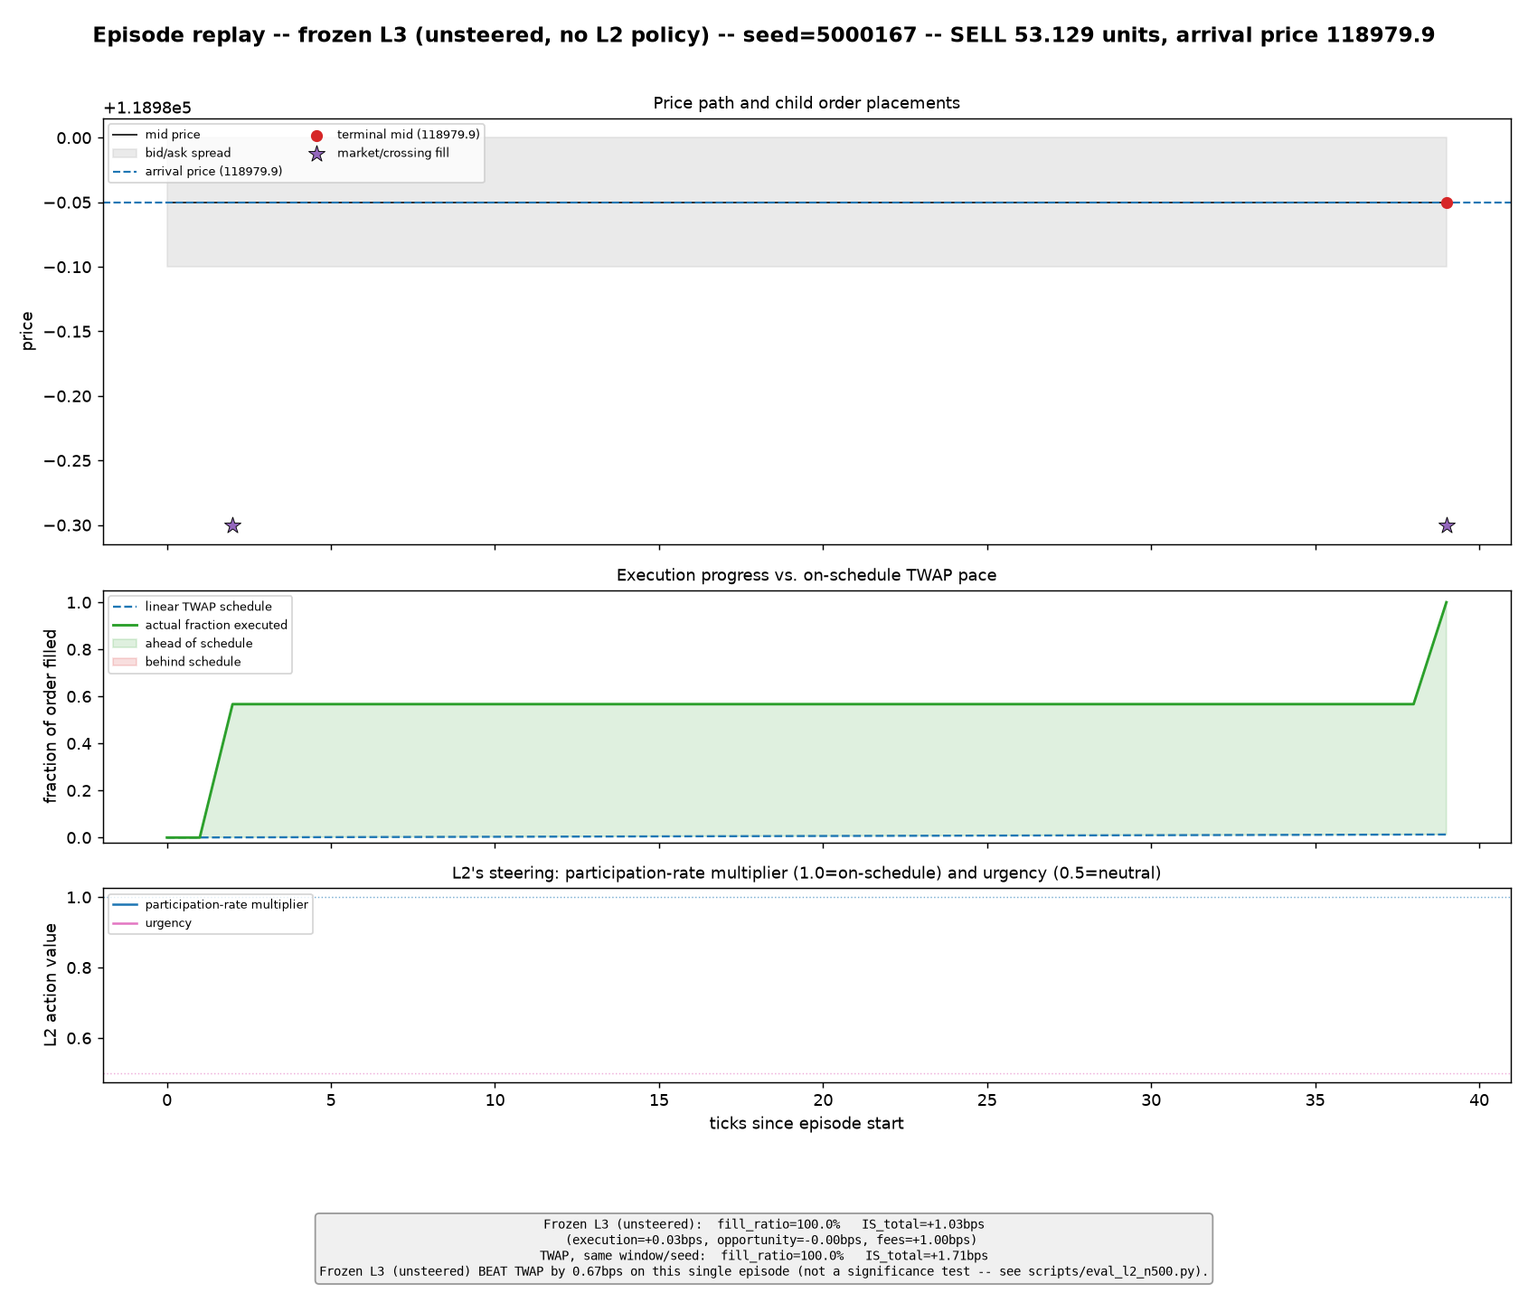
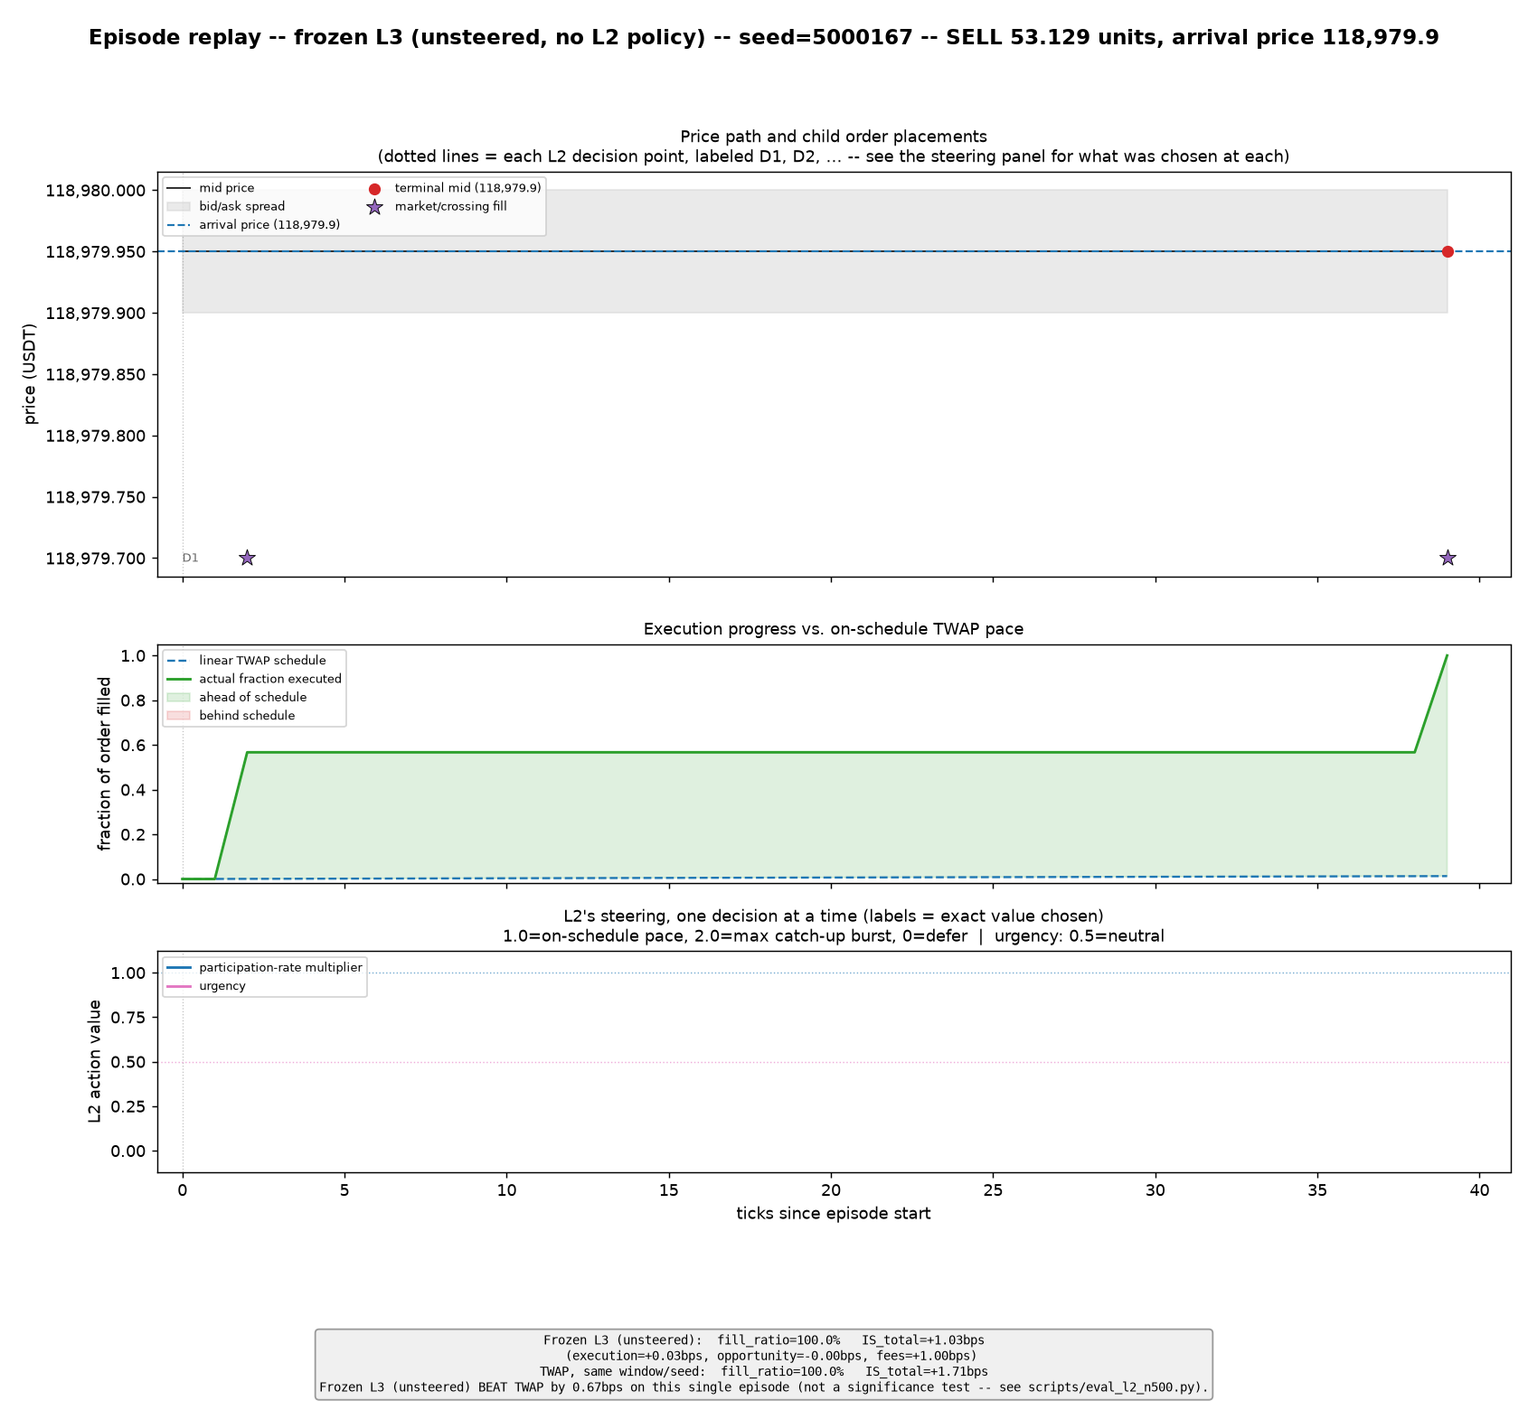
fix(replay): full comma-formatted prices (no sci-notation), adaptive tick precision, per-decision value labels, separate detail figures per panel

diff --git a/scripts/replay_episode.py b/scripts/replay_episode.py
@@ -65,6 +65,7 @@ from typing import Any
 import matplotlib
 matplotlib.use("Agg")  # no interactive display required
 import matplotlib.pyplot as plt
+from matplotlib.ticker import FuncFormatter
 import numpy as np
 from sb3_contrib import RecurrentPPO
 from stable_baselines3 import SAC
@@ -355,120 +356,264 @@ def _side_label(side: int) -> str:
     return "BUY" if side == 1 else "SELL"
 
 
+def _price_formatter(prices: list[float]) -> FuncFormatter:
+    """Full number, thousands-separated -- no scientific/offset notation (e.g.
+    matplotlib's default '+1.189e5' axis label), which a finance reader should not
+    have to decode. Decimal precision adapts to how much the price actually moves
+    in THIS episode: whole dollars would collapse a calm, sub-dollar episode's
+    y-axis ticks to a single repeated label (e.g. every tick reading '118,980'),
+    which happened during review and is a real loss of information, not just
+    cosmetic -- a reader could no longer see that the price moved at all."""
+    span = (max(prices) - min(prices)) if prices else 0.0
+    decimals = 0 if span >= 50 else 1 if span >= 5 else 2 if span >= 0.5 else 3
+    return FuncFormatter(lambda x, _pos=None: f"{x:,.{decimals}f}")
+
+
 # ---------------------------------------------------------------------------
 # Figure.
 # ---------------------------------------------------------------------------
 
-def build_figure(l2_result: dict, twap_result: dict, output_path: str) -> None:
-    tick_records = l2_result["tick_records"]
-    l2_decisions = l2_result["l2_decision_records"]
-    child_orders = l2_result["child_orders"]
+def _episode_title(l2_result: dict) -> str:
     side = l2_result["side"]
-    qty_total = l2_result["qty_total"]
-    arrival_price = l2_result["arrival_price"]
-    is_result = l2_result["is_result"]
-    twap_is = twap_result["is_result"]
-
-    ticks = [r["tick_idx"] for r in tick_records]
-    mids = [r["mid_price"] for r in tick_records]
-    bids = [r["best_bid"] for r in tick_records]
-    asks = [r["best_ask"] for r in tick_records]
-    t0 = ticks[0] if ticks else 0
-    rel_ticks = [t - t0 for t in ticks]
-
-    fig, axes = plt.subplots(3, 1, figsize=(13, 11), sharex=True, height_ratios=[2.2, 1.3, 1.0])
     mode_label = "frozen L3 (unsteered, no L2 policy)" if l2_result.get("frozen_l3_only") else "L2 policy"
-    fig.suptitle(
+    return (
         f"Episode replay -- {mode_label} -- seed={l2_result.get('seed', '?')} -- {_side_label(side)} "
-        f"{qty_total:.3f} units, arrival price {arrival_price:.1f}",
-        fontsize=13, fontweight="bold",
+        f"{l2_result['qty_total']:.3f} units, arrival price {l2_result['arrival_price']:,.1f}"
     )
 
-    # --- Panel 1: price path + child orders ---
-    ax = axes[0]
+
+def _extract_series(l2_result: dict) -> dict[str, Any]:
+    """Shared per-tick/per-decision series, computed once and reused by both the
+    combined overview figure and the separate per-panel figures below, so the two
+    can never silently drift apart."""
+    tick_records = l2_result["tick_records"]
+    l2_decisions = l2_result["l2_decision_records"]
+    qty_total = l2_result["qty_total"]
+
+    ticks = [r["tick_idx"] for r in tick_records]
+    t0 = ticks[0] if ticks else 0
+    rel_ticks = [t - t0 for t in ticks]
+    qty_remaining_series = [r["qty_remaining"] for r in tick_records]
+
+    return {
+        "t0": t0,
+        "rel_ticks": rel_ticks,
+        "mids": [r["mid_price"] for r in tick_records],
+        "bids": [r["best_bid"] for r in tick_records],
+        "asks": [r["best_ask"] for r in tick_records],
+        "dec_ticks": [d["tick_idx"] - t0 for d in l2_decisions],
+        "part_mult": [d["participation_mult"] for d in l2_decisions],
+        "urgency": [d["urgency"] for d in l2_decisions],
+        "executed_frac": [1.0 - qr / qty_total for qr in qty_remaining_series],
+        "schedule_frac": [min(1.0, rt / HORIZON_TICKS) for rt in rel_ticks],
+    }
+
+
+def _mark_decisions(ax, dec_ticks: list[int], label: bool = True) -> None:
+    """Thin vertical line at every L2 decision boundary, drawn on all three panels so
+    a reader can line up 'what happened to price/fills right after decision N' across
+    them -- this is the direct answer to 'let me see the agent choose at a specific
+    stage,' rather than requiring the reader to cross-reference tick numbers by eye.
+    Numbered D1/D2/... labels only when there are few enough to stay legible; past
+    that the lines alone (a longer episode, up to the ~60-decision max) still mark
+    every decision without cluttering the panel with unreadable overlapping text."""
+    for dt in dec_ticks:
+        ax.axvline(dt, color="#999999", ls=":", lw=0.7, alpha=0.6, zorder=1)
+    if label and 0 < len(dec_ticks) <= 20:
+        # Bottom, not top -- the legend defaults to "upper left" on every panel in
+        # this script, so a top-anchored label collides with it whenever an early
+        # decision sits near the left edge (as D1/D2 typically do).
+        ylim = ax.get_ylim()
+        y = ylim[0] + 0.03 * (ylim[1] - ylim[0])
+        for i, dt in enumerate(dec_ticks):
+            ax.text(dt, y, f"D{i + 1}", fontsize=7, color="#666666", ha="left", va="bottom")
+
+
+def _draw_price_panel(ax, l2_result: dict, s: dict) -> None:
+    side = l2_result["side"]
+    arrival_price = l2_result["arrival_price"]
+    rel_ticks, mids, bids, asks = s["rel_ticks"], s["mids"], s["bids"], s["asks"]
+
     ax.plot(rel_ticks, mids, color="#333333", lw=1.1, label="mid price")
     ax.fill_between(rel_ticks, bids, asks, color="#cccccc", alpha=0.4, label="bid/ask spread")
-    ax.axhline(arrival_price, color="#1f77b4", ls="--", lw=1.2, label=f"arrival price ({arrival_price:.1f})")
+    ax.axhline(arrival_price, color="#1f77b4", ls="--", lw=1.2, label=f"arrival price ({arrival_price:,.1f})")
     if mids:
         ax.scatter([rel_ticks[-1]], [mids[-1]], color="#d62728", zorder=5, s=40,
-                   label=f"terminal mid ({mids[-1]:.1f})")
+                   label=f"terminal mid ({mids[-1]:,.1f})")
 
     outcome_style = {
         "filled": dict(marker="^" if side == 1 else "v", color="#2ca02c", label="resting order -- filled"),
         "replaced": dict(marker="x", color="#ff7f0e", label="resting order -- replaced before filling"),
         "open_at_episode_end": dict(marker="o", color="#7f7f7f", label="resting order -- still open at end"),
     }
-    seen_labels = set()
-    for order in child_orders:
+    seen_labels: set[str] = set()
+    for order in l2_result["child_orders"]:
         if order.kind == "resting":
             style = outcome_style[order.outcome]
             lbl = style["label"] if style["label"] not in seen_labels else None
             seen_labels.add(style["label"])
-            ax.scatter([order.placement_tick - t0], [order.placement_price], marker=style["marker"],
+            ax.scatter([order.placement_tick - s["t0"]], [order.placement_price], marker=style["marker"],
                        color=style["color"], s=70, zorder=6, label=lbl, edgecolors="black", linewidths=0.5)
         else:
             lbl = "market/crossing fill" if "market/crossing fill" not in seen_labels else None
             seen_labels.add("market/crossing fill")
-            ax.scatter([order.placement_tick - t0], [order.placement_price], marker="*",
+            ax.scatter([order.placement_tick - s["t0"]], [order.placement_price], marker="*",
                        color="#9467bd", s=110, zorder=7, label=lbl, edgecolors="black", linewidths=0.5)
 
-    ax.set_ylabel("price")
-    ax.set_title("Price path and child order placements", fontsize=10)
+    _mark_decisions(ax, s["dec_ticks"])
+    ax.yaxis.set_major_formatter(_price_formatter(bids + asks + mids))
+    ax.set_ylabel("price (USDT)")
+    ax.set_title(
+        "Price path and child order placements\n"
+        "(dotted lines = each L2 decision point, labeled D1, D2, ... -- see the steering panel for what was chosen at each)",
+        fontsize=10,
+    )
     ax.legend(loc="upper left", fontsize=7, ncol=2)
 
-    # --- Panel 2: inventory vs TWAP schedule ---
-    ax = axes[1]
-    qty_remaining_series = [r["qty_remaining"] for r in tick_records]
-    executed_frac = [1.0 - qr / qty_total for qr in qty_remaining_series]
-    schedule_frac = [min(1.0, rt / HORIZON_TICKS) for rt in rel_ticks]
+
+def _draw_execution_panel(ax, s: dict) -> None:
+    rel_ticks, executed_frac, schedule_frac = s["rel_ticks"], s["executed_frac"], s["schedule_frac"]
     ax.plot(rel_ticks, schedule_frac, color="#1f77b4", ls="--", lw=1.3, label="linear TWAP schedule")
     ax.plot(rel_ticks, executed_frac, color="#2ca02c", lw=1.6, label="actual fraction executed")
     ax.fill_between(rel_ticks, executed_frac, schedule_frac,
-                     where=[e >= s for e, s in zip(executed_frac, schedule_frac)],
+                     where=[e >= sch for e, sch in zip(executed_frac, schedule_frac)],
                      color="#2ca02c", alpha=0.15, interpolate=True, label="ahead of schedule")
     ax.fill_between(rel_ticks, executed_frac, schedule_frac,
-                     where=[e < s for e, s in zip(executed_frac, schedule_frac)],
+                     where=[e < sch for e, sch in zip(executed_frac, schedule_frac)],
                      color="#d62728", alpha=0.15, interpolate=True, label="behind schedule")
+    _mark_decisions(ax, s["dec_ticks"], label=False)
     ax.set_ylabel("fraction of order filled")
     ax.set_ylim(-0.02, 1.05)
     ax.set_title("Execution progress vs. on-schedule TWAP pace", fontsize=10)
     ax.legend(loc="upper left", fontsize=7)
 
-    # --- Panel 3: L2's own steering decisions ---
-    ax = axes[2]
-    dec_ticks = [d["tick_idx"] - t0 for d in l2_decisions]
-    part_mult = [d["participation_mult"] for d in l2_decisions]
-    urgency = [d["urgency"] for d in l2_decisions]
-    ax.step(dec_ticks, part_mult, where="post", color="#1f77b4", lw=1.4, label="participation-rate multiplier")
-    ax.step(dec_ticks, urgency, where="post", color="#e377c2", lw=1.4, label="urgency")
+
+def _draw_steering_panel(ax, s: dict, annotate_values: bool = True) -> None:
+    dec_ticks, part_mult, urgency = s["dec_ticks"], s["part_mult"], s["urgency"]
+    rel_ticks = s["rel_ticks"]
+    x_end = rel_ticks[-1] if rel_ticks else (dec_ticks[-1] if dec_ticks else 1)
+
+    ax.step(dec_ticks, part_mult, where="post", color="#1f77b4", lw=1.6, label="participation-rate multiplier")
+    ax.step(dec_ticks, urgency, where="post", color="#e377c2", lw=1.6, label="urgency")
     ax.axhline(1.0, color="#1f77b4", ls=":", lw=0.8, alpha=0.6)
     ax.axhline(0.5, color="#e377c2", ls=":", lw=0.8, alpha=0.6)
+
+    # Extra x/y headroom so the value labels -- placed just above/below each step,
+    # including right at the data's own min/max -- don't get clipped by the
+    # axes/figure boundary (seen concretely: a value of 2.0, the participation-rate
+    # ceiling, is a common real value here, and its "+6 points" label offset was
+    # landing right on the top border without this).
+    x_lo = dec_ticks[0] if dec_ticks else 0
+    ax.set_xlim(x_lo - 0.02 * (x_end - x_lo), x_end + 0.05 * (x_end - x_lo))
+    y_hi = max([*part_mult, *urgency, 1.0], default=1.0)
+    y_lo = min([*part_mult, *urgency, 0.0], default=0.0)
+    ax.set_ylim(y_lo - 0.12 * (y_hi - y_lo), y_hi + 0.12 * (y_hi - y_lo))
+
+    # Label the exact chosen value at every decision directly on its own segment --
+    # answers "what did the agent actually choose at stage N" without making the
+    # reader eyeball a y-axis position, which is the whole point of this panel. Only
+    # in the standalone figure (annotate_values=True, the default): the combined
+    # overview's panel is short enough that the fixed-size legend box covers a large
+    # share of it regardless of where a label is placed, so the overview shows shape
+    # only and leaves exact values to the larger, dedicated figure.
+    if annotate_values:
+        n = len(dec_ticks)
+        for i, dt in enumerate(dec_ticks):
+            seg_end = dec_ticks[i + 1] if i + 1 < n else x_end
+            mid_x = (dt + seg_end) / 2
+            ax.annotate(f"{part_mult[i]:.2f}", (mid_x, part_mult[i]), textcoords="offset points",
+                        xytext=(0, 6), ha="center", fontsize=7, color="#1f77b4", fontweight="bold",
+                        annotation_clip=False)
+            ax.annotate(f"{urgency[i]:.2f}", (mid_x, urgency[i]), textcoords="offset points",
+                        xytext=(0, -11), ha="center", fontsize=7, color="#e377c2", fontweight="bold",
+                        annotation_clip=False)
+
+    _mark_decisions(ax, dec_ticks, label=False)
     ax.set_ylabel("L2 action value")
-    ax.set_xlabel("ticks since episode start")
-    ax.set_title("L2's steering: participation-rate multiplier (1.0=on-schedule) and urgency (0.5=neutral)", fontsize=10)
+    ax.set_title(
+        "L2's steering, one decision at a time (labels = exact value chosen)\n"
+        "1.0=on-schedule pace, 2.0=max catch-up burst, 0=defer  |  urgency: 0.5=neutral",
+        fontsize=10,
+    )
     ax.legend(loc="upper left", fontsize=7)
 
-    # --- Summary text box --- (short explicit lines, none wide enough to overflow
-    # the figure at this fontsize -- a single long f-string wrapped only at spaces
-    # was found to run off the right edge of the saved PNG, fixed by splitting
-    # deliberately rather than relying on matplotlib's own wrapping.)
+
+def _summary_lines(l2_result: dict, twap_result: dict) -> list[str]:
+    """Short explicit lines, none wide enough to overflow the figure at this
+    fontsize -- a single long f-string wrapped only at spaces was found to run off
+    the right edge of the saved PNG, fixed by splitting deliberately rather than
+    relying on matplotlib's own wrapping."""
+    is_result = l2_result["is_result"]
+    twap_is = twap_result["is_result"]
     exec_str = f"{is_result.is_exec_bps:+.2f}bps" if is_result.is_exec_bps is not None else "n/a (no fills)"
     verdict = "BEAT" if is_result.is_total_bps < twap_is.is_total_bps else "LOST TO"
     verdict_gap = abs(is_result.is_total_bps - twap_is.is_total_bps)
     arm_label = "Frozen L3 (unsteered)" if l2_result.get("frozen_l3_only") else "L2 policy"
-    summary_lines = [
+    return [
         f"{arm_label}:  fill_ratio={is_result.fill_ratio:.1%}   IS_total={is_result.is_total_bps:+.2f}bps",
         f"  (execution={exec_str}, opportunity={is_result.is_opp_bps:+.2f}bps, fees={is_result.fees_bps:+.2f}bps)",
         f"TWAP, same window/seed:  fill_ratio={twap_is.fill_ratio:.1%}   IS_total={twap_is.is_total_bps:+.2f}bps",
         f"{arm_label} {verdict} TWAP by {verdict_gap:.2f}bps on this single episode "
         f"(not a significance test -- see scripts/eval_l2_n500.py).",
     ]
-    fig.text(0.5, 0.01, "\n".join(summary_lines), ha="center", va="bottom", fontsize=8, family="monospace",
+
+
+def _add_summary_box(fig, l2_result: dict, twap_result: dict, fontsize: int) -> None:
+    fig.text(0.5, 0.01, "\n".join(_summary_lines(l2_result, twap_result)), ha="center", va="bottom",
+              fontsize=fontsize, family="monospace",
               bbox=dict(boxstyle="round", facecolor="#f0f0f0", edgecolor="#999999"))
 
-    fig.tight_layout(rect=[0, 0.11, 1, 0.97])
+
+def build_figure(l2_result: dict, twap_result: dict, output_path: str) -> None:
+    """Combined 3-panel overview -- one at-a-glance read. Each panel is cramped by
+    sharing vertical space with the other two; see build_separate_figures() for a
+    larger, individually detailed version of each, which is the better read when the
+    price axis's full numbers or the steering panel's per-decision labels matter."""
+    s = _extract_series(l2_result)
+
+    fig, axes = plt.subplots(3, 1, figsize=(13, 12), sharex=True, height_ratios=[2.2, 1.3, 1.2])
+    fig.suptitle(_episode_title(l2_result), fontsize=13, fontweight="bold")
+
+    _draw_price_panel(axes[0], l2_result, s)
+    _draw_execution_panel(axes[1], s)
+    _draw_steering_panel(axes[2], s, annotate_values=False)
+    axes[2].set_xlabel("ticks since episode start")
+
+    _add_summary_box(fig, l2_result, twap_result, fontsize=8)
+    fig.tight_layout(rect=[0, 0.12, 1, 0.95])
     fig.savefig(output_path, dpi=130)
     plt.close(fig)
+
+
+def build_separate_figures(l2_result: dict, twap_result: dict, output_stem: str) -> list[str]:
+    """One larger, standalone figure per panel -- easier to read in isolation,
+    especially the price axis's comma-formatted full numbers and the steering
+    panel's per-decision value labels, both cramped in the combined overview above.
+    Each file stands alone (own title, own summary box) since a reader may only
+    open one of the three."""
+    s = _extract_series(l2_result)
+    title = _episode_title(l2_result)
+    panels = [
+        ("price", _draw_price_panel, (12, 6.5)),
+        ("execution", _draw_execution_panel, (12, 5.5)),
+        ("steering", _draw_steering_panel, (12, 5.5)),
+    ]
+    paths = []
+    for name, draw_fn, figsize in panels:
+        fig, ax = plt.subplots(figsize=figsize)
+        fig.suptitle(title, fontsize=12, fontweight="bold")
+        if draw_fn is _draw_price_panel:
+            draw_fn(ax, l2_result, s)
+        else:
+            draw_fn(ax, s)
+        ax.set_xlabel("ticks since episode start")
+        _add_summary_box(fig, l2_result, twap_result, fontsize=9)
+        fig.tight_layout(rect=[0, 0.15, 1, 0.92])
+        path = f"{output_stem}_{name}.png"
+        fig.savefig(path, dpi=140)
+        plt.close(fig)
+        paths.append(path)
+    return paths
 
 
 # L3's own n=500 action-type distribution (docs/TRACK_STATUS.md / L3's evaluation
@@ -502,6 +647,7 @@ def main() -> None:
         args.data_dir = NUMERIC_DATA_DIR if args.use_numeric_format else PARQUET_DATA_DIR
 
     output_path = args.output or f"replay_seed{args.seed}.png"
+    output_stem = output_path[:-4] if output_path.lower().endswith(".png") else output_path
 
     val_dates = load_split("val")
     val_date_range = (val_dates[0].isoformat(), val_dates[-1].isoformat())
@@ -536,7 +682,9 @@ def main() -> None:
         print("    this visualizer has a bug, not that frozen L3's behavior changed.")
 
     build_figure(l2_result, twap_result, output_path)
-    print(f"\nWrote {output_path}")
+    print(f"\nWrote {output_path} (combined overview)")
+    for p in build_separate_figures(l2_result, twap_result, output_stem):
+        print(f"Wrote {p} (single-panel detail)")
 
 
 if __name__ == "__main__":

diff --git a/docs/reports/PROJECT_FINAL_REPORT.md b/docs/reports/PROJECT_FINAL_REPORT.md
@@ -308,16 +308,26 @@ this environment, at this cadence, with this action space, L2 steering does not 
 exploitable edge over an unsteered, frozen L3** — not because any one identifiable thing was
 broken, but because none of the things that plausibly could have been broken, were, once checked.
 
-*Illustrative figures* (`docs/reports/figures/l2_replay_frozen_seed5000167.png`,
-`l2_replay_l2v3steered_seed5000167.png`): the same seed (same day, quantity, arrival price — a
-near-median outcome for both arms, chosen so as not to cherry-pick a favorable or unfavorable
-episode), run once unsteered and once under L2's final policy. The unsteered run fills the entire
-order in 39 ticks at a flat price (IS=+1.03bps); L2's policy takes a very different path —
-front-loads aggressively (participation multiplier at its 2.0 ceiling for the first 50 ticks),
-throttles down, and finishes over 218 ticks while the market moves through a real drawdown
-(IS=+1.04bps). Two visibly different execution strategies, statistically the same outcome — a
-visual version of Section 5's central finding. These two episodes are illustrative of mechanism,
-not representative of the aggregate — Section 2's n=500 tables are the actual evidence.
+*Illustrative figures* (`docs/reports/figures/`, same seed run twice — once unsteered, once under
+L2's final policy — same day, quantity, and arrival price both times, a near-median outcome for
+both arms, chosen so as not to cherry-pick a favorable or unfavorable episode). Each run has a
+combined overview (`l2_replay_frozen_seed5000167.png`, `l2_replay_l2v3steered_seed5000167.png`)
+plus three larger single-panel versions for detail — full un-rounded prices, and every steering
+decision individually labeled with its exact chosen value — under the `_price.png`, `_execution.png`,
+and `_steering.png` suffixes of the same two base names.
+
+The unsteered run fills the entire order in 39 ticks at a flat price (IS=+1.03bps); L2's policy
+takes a very different path — front-loads aggressively (participation multiplier at its 2.0
+ceiling for the first 50 ticks: D1 in the price/steering figures below), throttles down to 0.21x
+by D2, then 0.33x and 0.70x at D3/D4, and finishes over 218 ticks while the market moves through a
+real drawdown (IS=+1.04bps). Two visibly different execution strategies, statistically the same
+outcome — a visual version of Section 5's central finding. These two episodes are illustrative of
+mechanism, not representative of the aggregate — Section 2's n=500 tables are the actual evidence.
+
+![L2's steering decisions, one at a time, seed 5000167](figures/l2_replay_l2v3steered_seed5000167_steering.png)
+*Every one of L2's 5 decisions in this episode, with the exact participation-rate multiplier and
+urgency value it chose at each — see `_price.png` for how those choices map onto where child
+orders actually landed on the price path.*
 
 ---
 
